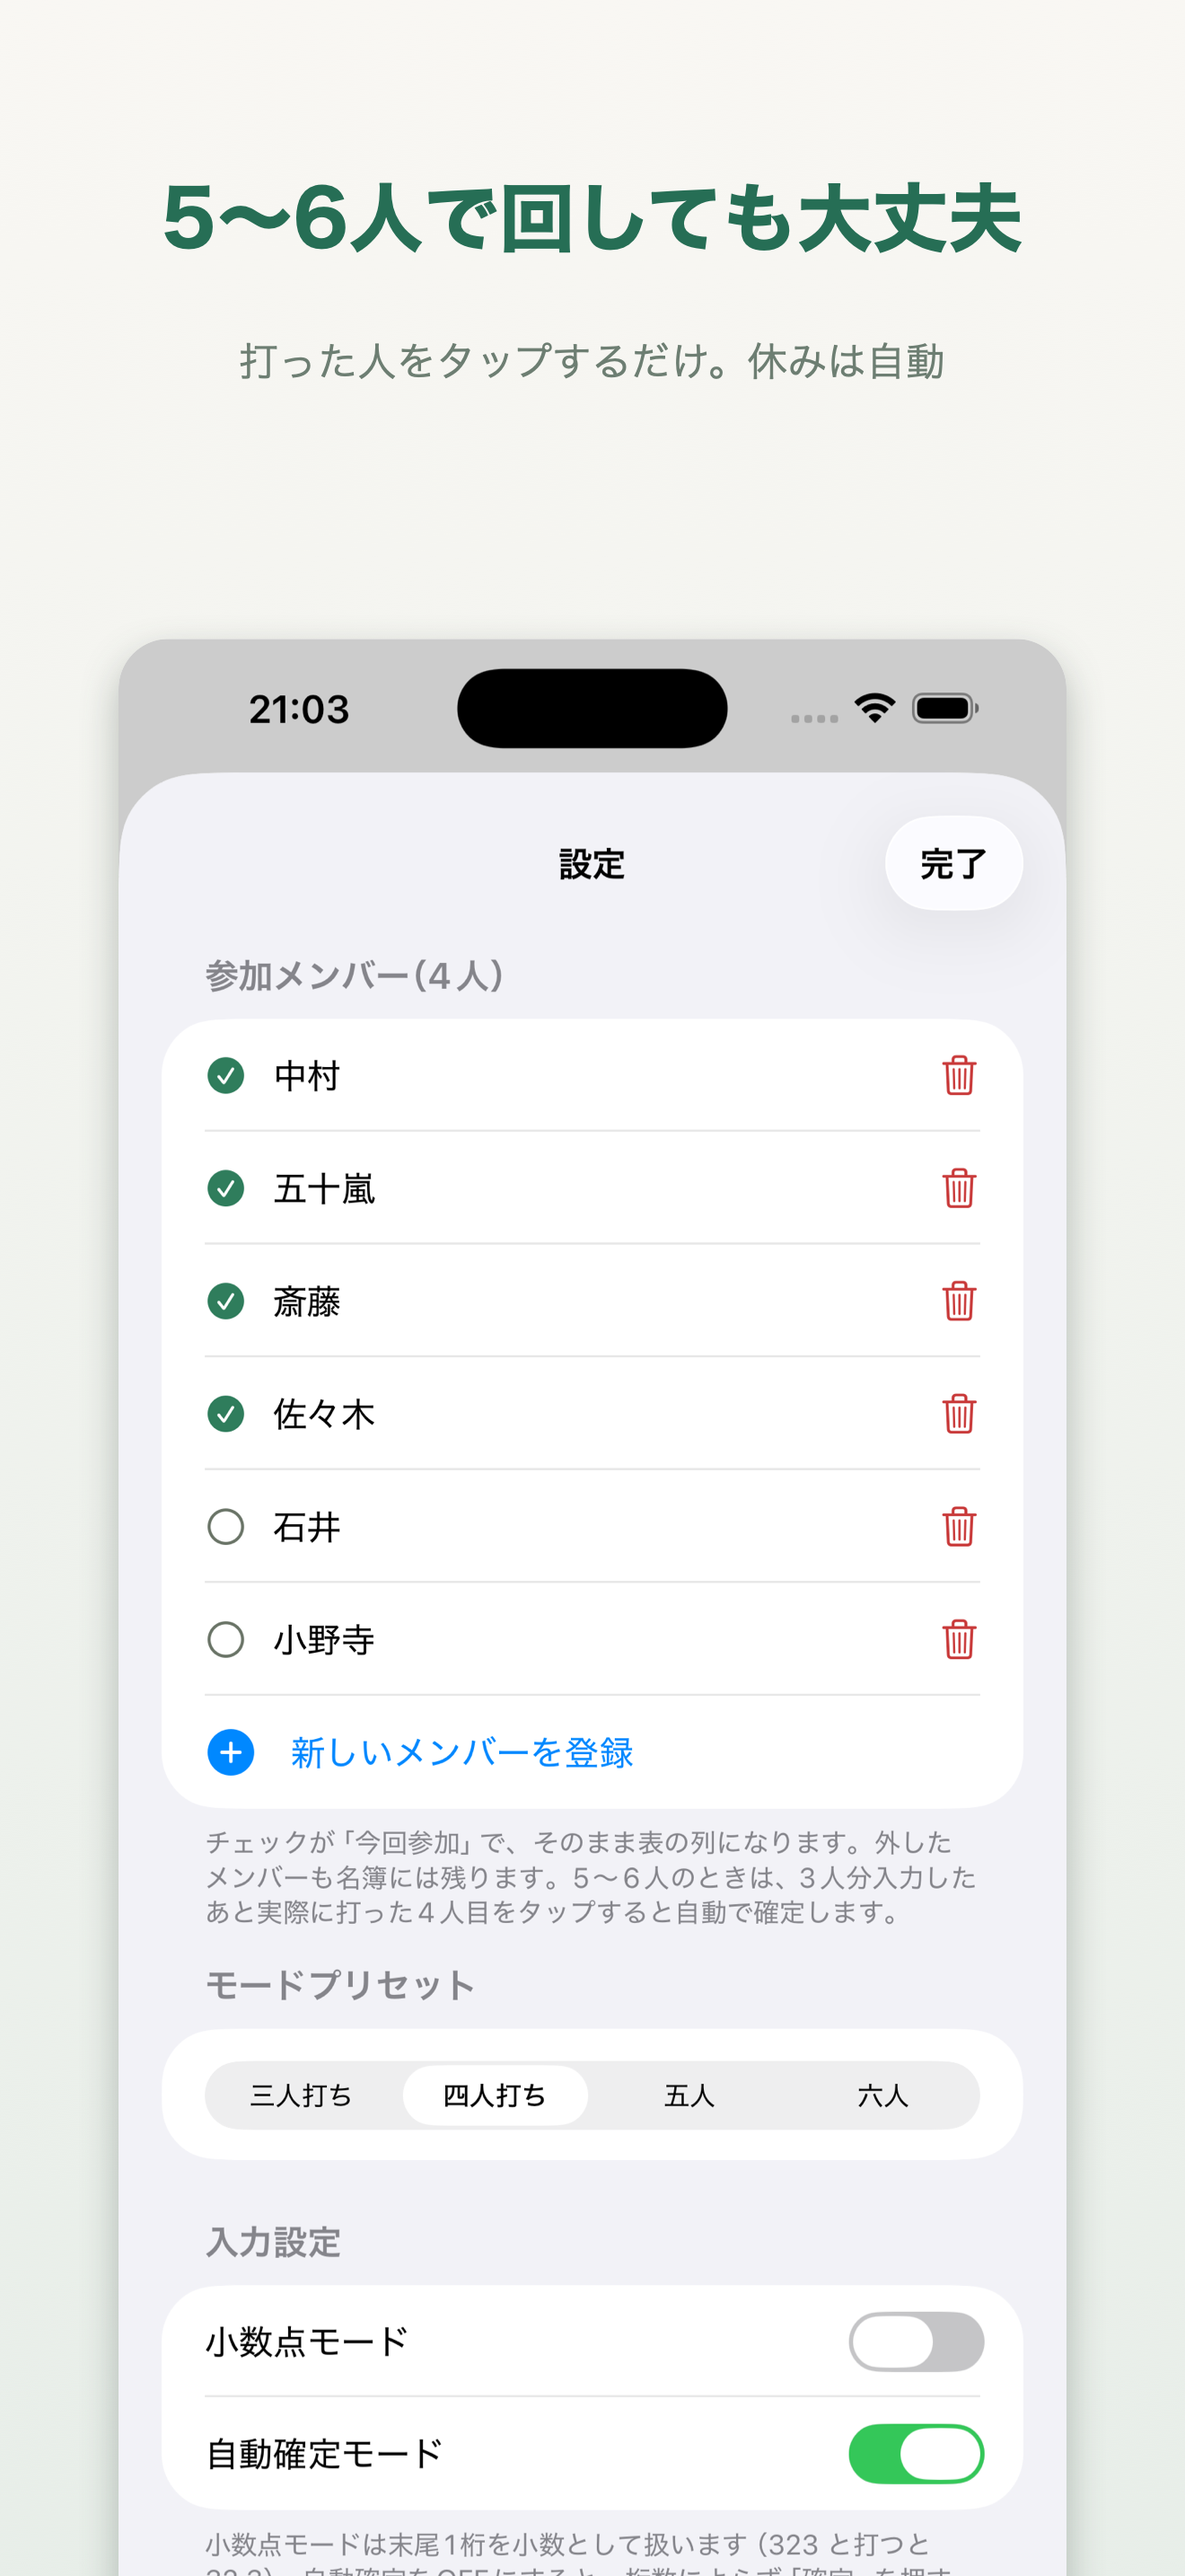
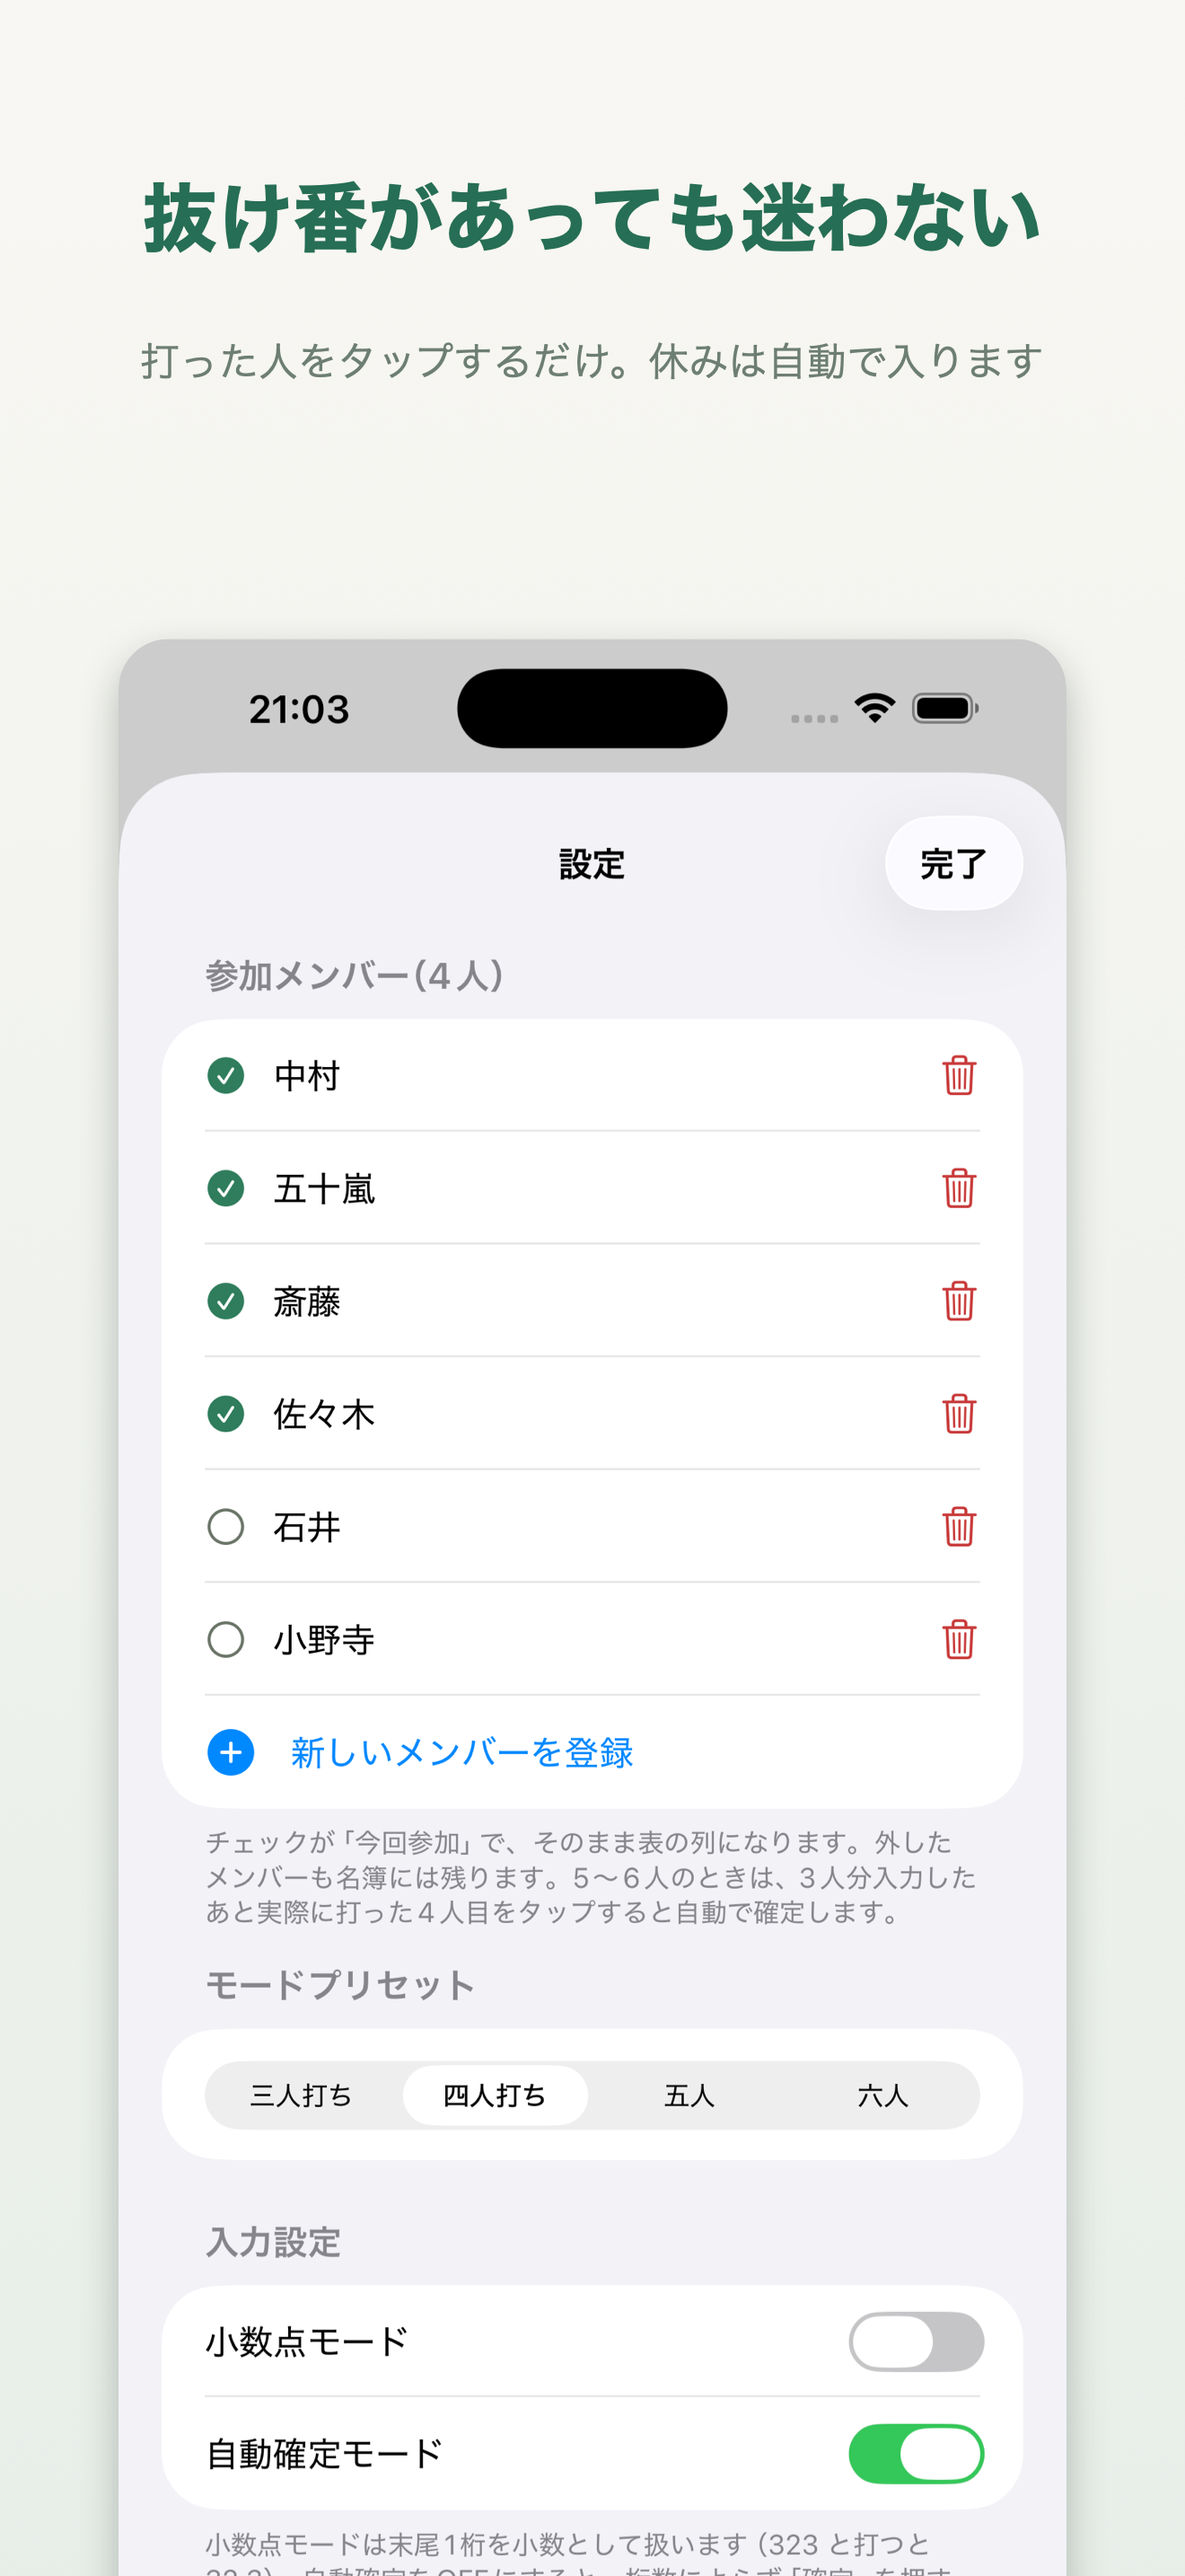
スクリーンショットを差し替え、デモデータの抜け番を回すようにした
- 02を「確定前のプレビュー」から「6人でも1画面に収まる」に変更。
  人数と局数に応じて自動で縮む点が雀算の一番の特徴のため
- デモデータで打つ4人を毎局ずらすようにした。以前は5〜6人でも
  常に先頭4人が打つ形になり、後ろの列が全部お休みで埋まっていた
- 日本語化の確認が済んだので、HistoryViewの古いコメントを削除

Changed region(s): [[0.1242, 0.0621, 0.8697, 0.1552]]

diff --git a/Jansan/Jansan/ScoreBoard.swift b/Jansan/Jansan/ScoreBoard.swift
@@ -314,14 +314,17 @@ final class ScoreBoard {
             [-32, 71, -50], [51, -52, 15], [15, -32, 61], [9, -51, 53],
             [5, 43, -15], [-53, 56, -16], [-23, 67, 20], [-18, -22, 55],
         ]
+        let playerCount = session.players.count
         for round in 0..<count {
             let scores = samples[round % samples.count]
-            for (column, score) in scores.enumerated() {
-                session.enter(score, at: Position(round: round, column: column))
+            // 5人以上のときは打つ4人を毎局ずらす。同じ人がずっとお休みだと
+            // 実際の卓の様子と違ううえ、見た目でも列が死んで見える
+            let seats = (0..<4).map { (round + $0) % playerCount }
+            for (index, score) in scores.enumerated() {
+                session.enter(score, at: Position(round: round, column: seats[index]))
             }
-            // 5〜6人打ちは4人目を指定しないと局が閉じない
             if session.needsWinnerDesignation(at: round) {
-                session.designateWinner(at: Position(round: round, column: 3))
+                session.designateWinner(at: Position(round: round, column: seats[3]))
             }
         }
         deselect()

diff --git a/store/MakeScreenshots.swift b/store/MakeScreenshots.swift
@@ -16,9 +16,9 @@ struct Shot {
 
 let shots = [
     Shot(file: "01-main.png",     title: "3人打てば、4人目は自動", subtitle: "合計が0になるよう逆算します"),
-    Shot(file: "02-input.png",    title: "確定前に、入る数字が見える", subtitle: "マイナスは赤。符号の付け忘れに気づけます"),
+    Shot(file: "02-fit.png",      title: "6人でも1画面に収まる", subtitle: "人数と局数に合わせて自動で縮小。横スクロールなし"),
     Shot(file: "03-stats.png",    title: "着順も推移も、ひと目で", subtitle: "打つほど成績が積み上がります"),
-    Shot(file: "04-settings.png", title: "5〜6人で回しても大丈夫", subtitle: "打った人をタップするだけ。休みは自動"),
+    Shot(file: "04-settings.png", title: "抜け番があっても迷わない", subtitle: "打った人をタップするだけ。休みは自動で入ります"),
     Shot(file: "05-export.png",   title: "CSVで書き出して共有", subtitle: "メモにもスプレッドシートにも貼れます"),
 ]
 

diff --git a/Jansan/Jansan/HistoryView.swift b/Jansan/Jansan/HistoryView.swift
@@ -38,8 +38,7 @@ struct HistoryView: View {
             .navigationTitle("保存した記録")
             .navigationBarTitleDisplayMode(.inline)
             .toolbar {
-                // EditButtonはアプリを日本語化するまで英語表記になるうえ、
-                // 各行のゴミ箱ボタンとスワイプ削除で用は足りるので置かない
+                // 各行のゴミ箱ボタンとスワイプ削除で用は足りるので、EditButtonは置かない
                 ToolbarItem(placement: .confirmationAction) {
                     Button("閉じる") { dismiss() }
                 }
